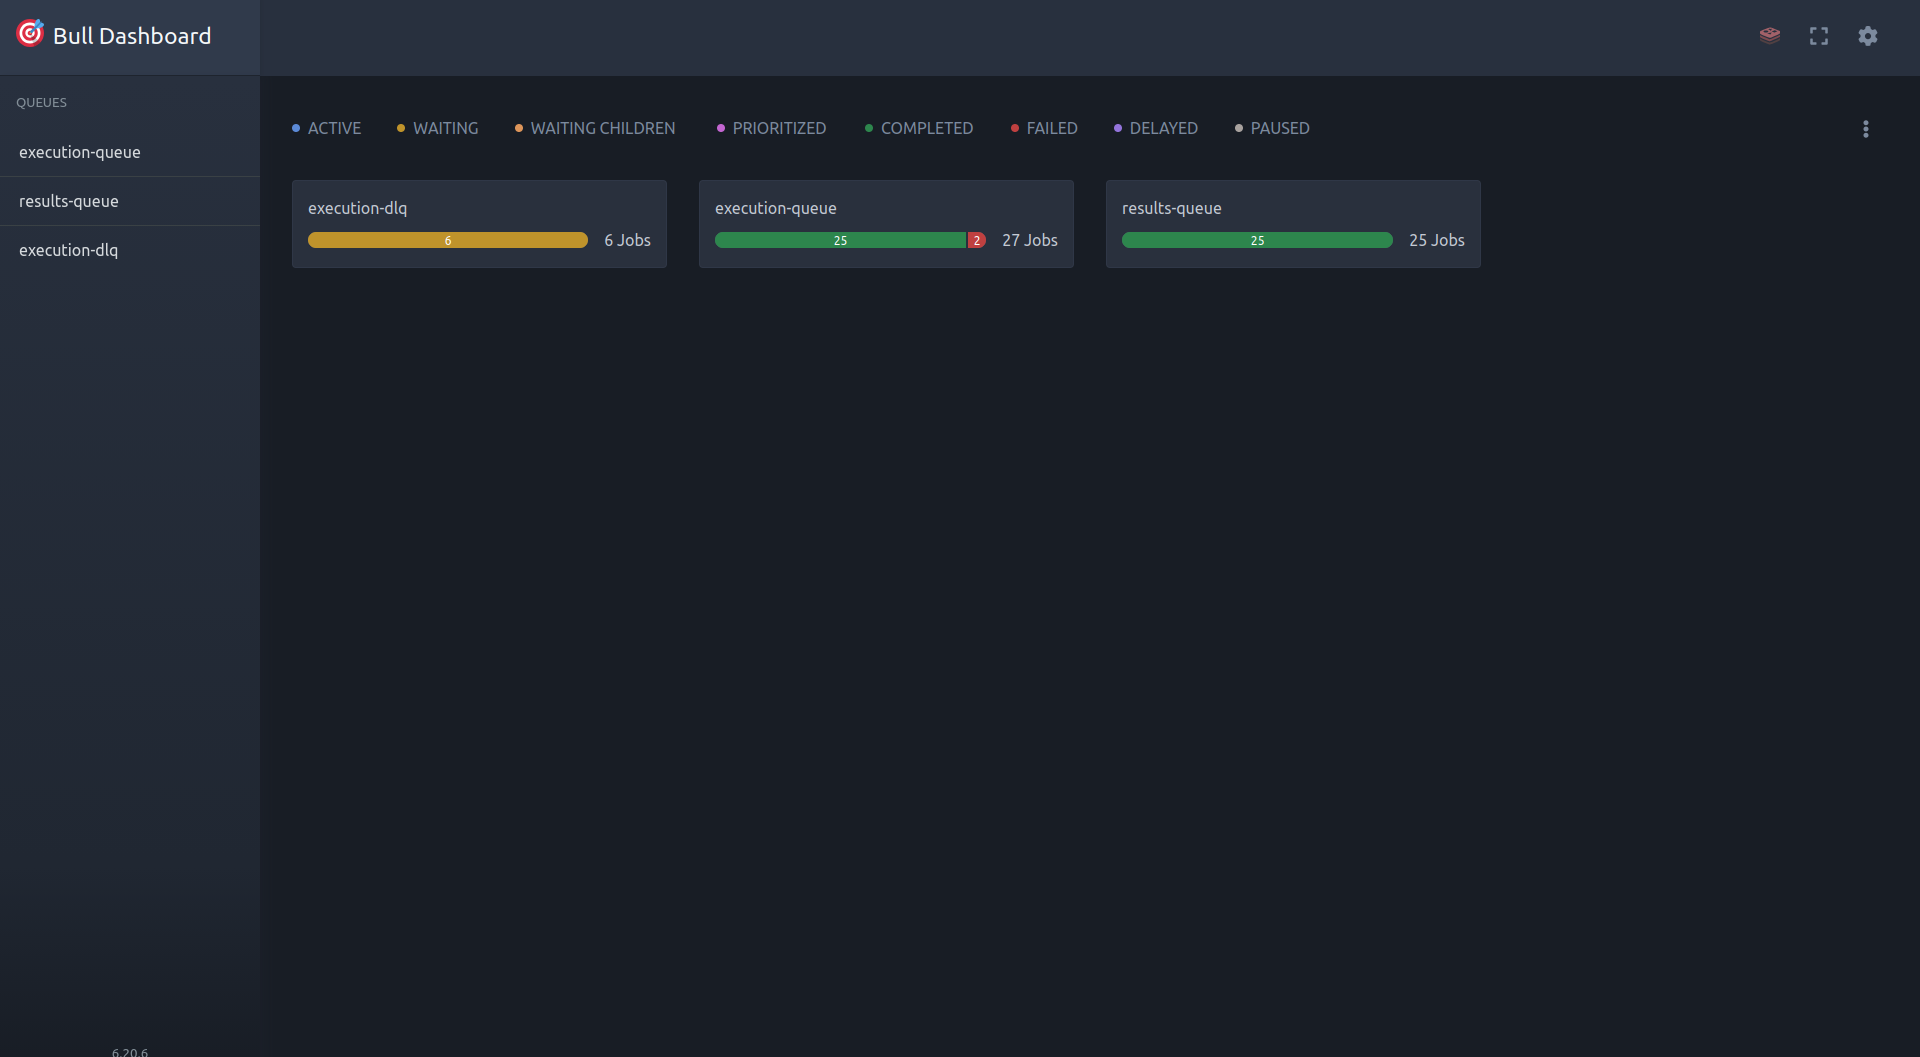
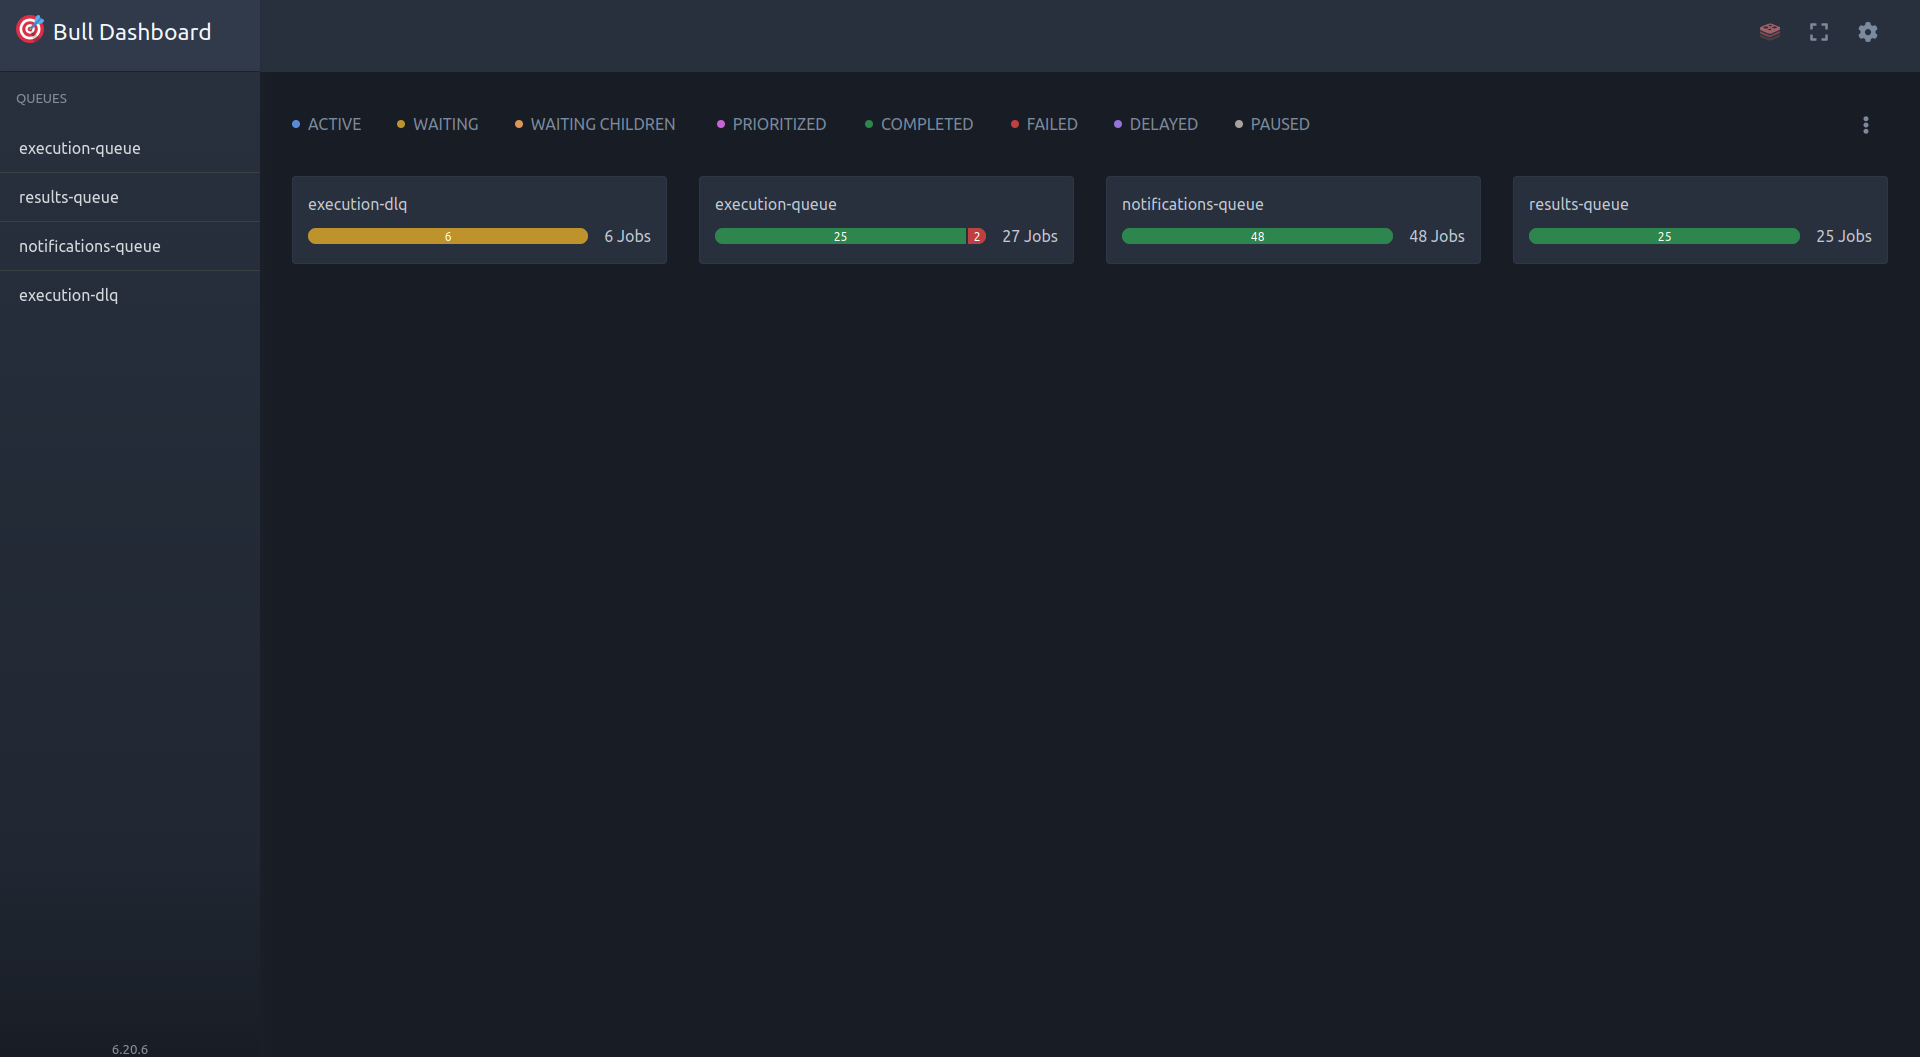
chore: add notifications queue in the bullmq dashboard

diff --git a/apps/api-gateway/src/queues/bull-board.ts b/apps/api-gateway/src/queues/bull-board.ts
@@ -3,7 +3,12 @@ import { ExpressAdapter } from '@bull-board/express';
 import { createBullBoard } from '@bull-board/api';
 import { BullMQAdapter } from '@bull-board/api/bullMQAdapter';
 
-export function setupBullBoard(executionQueue: Queue, resultsQueue: Queue, dlqQueue: Queue) {
+export function setupBullBoard(
+    executionQueue: Queue,
+    resultsQueue: Queue,
+    notificationsQueue: Queue,
+    dlqQueue: Queue,
+) {
     const serverAdapter = new ExpressAdapter();
 
     serverAdapter.setBasePath('/queues');
@@ -12,6 +17,7 @@ export function setupBullBoard(executionQueue: Queue, resultsQueue: Queue, dlqQu
         queues: [
             new BullMQAdapter(executionQueue),
             new BullMQAdapter(resultsQueue),
+            new BullMQAdapter(notificationsQueue),
             new BullMQAdapter(dlqQueue),
         ],
         serverAdapter,

diff --git a/apps/api-gateway/src/main.ts b/apps/api-gateway/src/main.ts
@@ -69,8 +69,14 @@ async function bootstrap() {
     // QUEUES
     const executionQueue = app.get<Queue>(getQueueToken('execution-queue'));
     const resultsQueue = app.get<Queue>(getQueueToken('results-queue'));
+    const notificationsQueue = app.get<Queue>(getQueueToken('notifications-queue'));
     const dlqQueue = app.get<Queue>(getQueueToken('execution-dlq'));
-    const serverAdapter = setupBullBoard(executionQueue, resultsQueue, dlqQueue);
+    const serverAdapter = setupBullBoard(
+        executionQueue,
+        resultsQueue,
+        notificationsQueue,
+        dlqQueue,
+    );
     app.use(
         '/queues',
         basicAuth({
